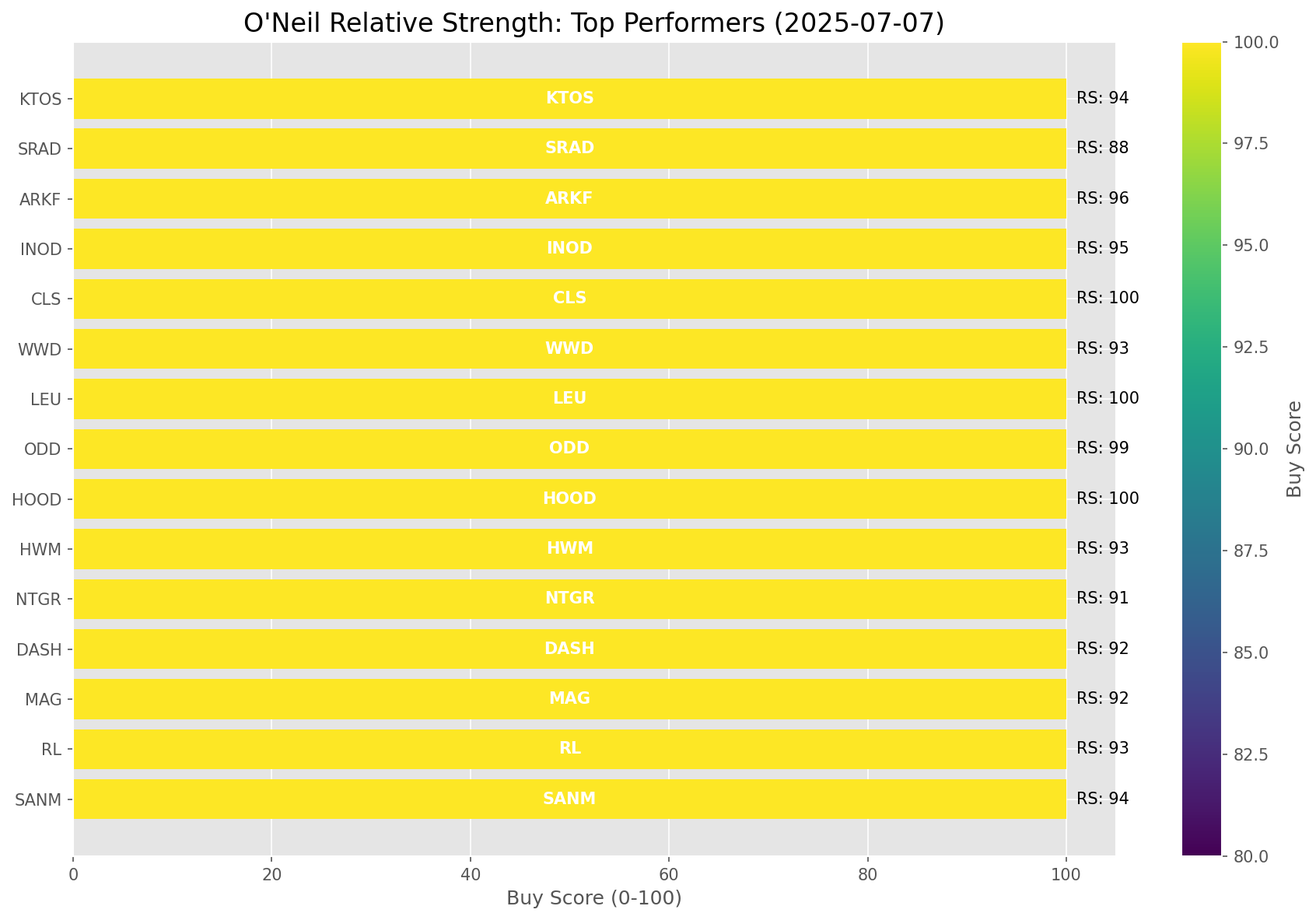
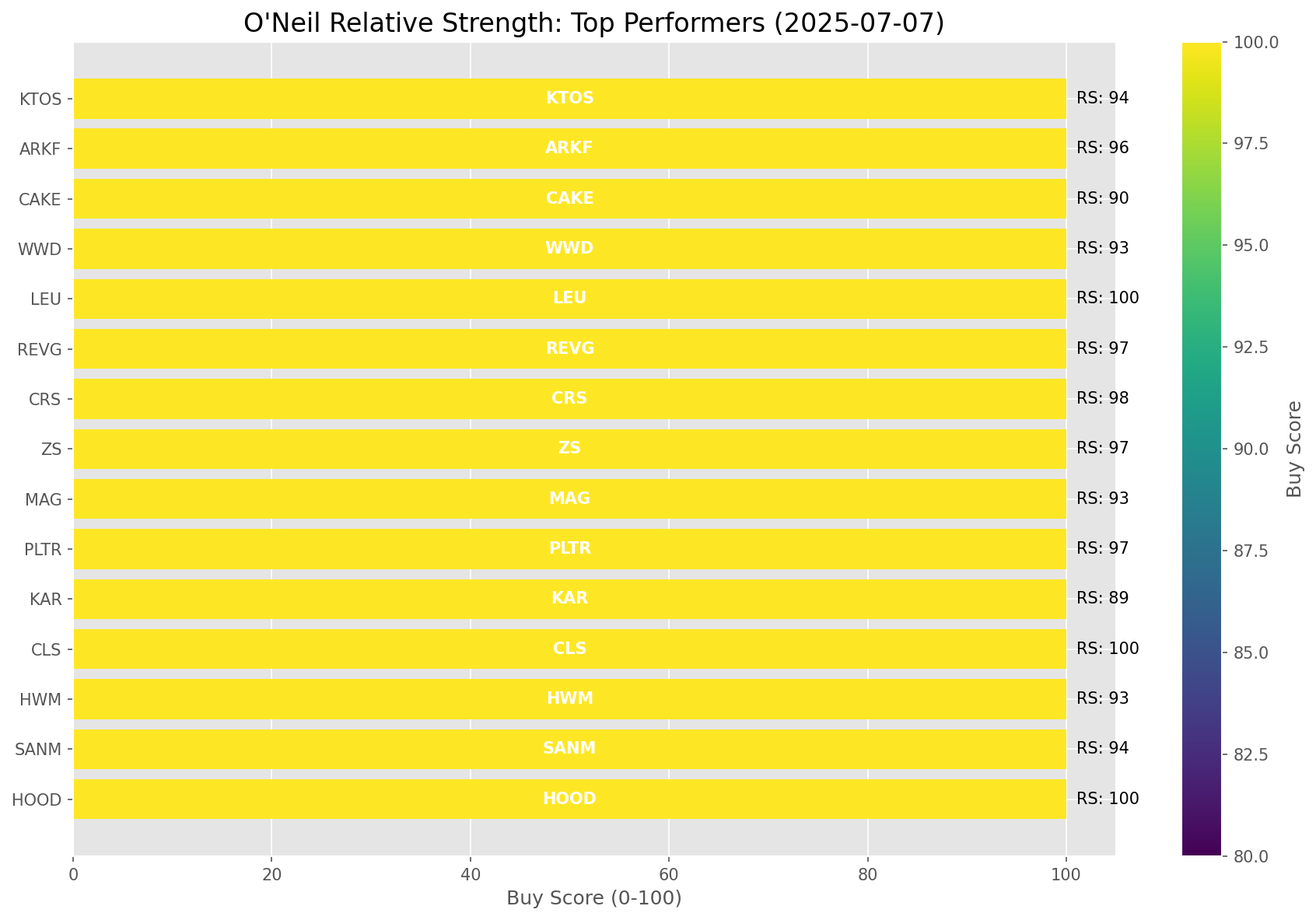
Add market report for 2025-07-07

diff --git a/oneil_relative_strength_report_2025-07-07.md b/oneil_relative_strength_report_2025-07-07.md
@@ -9,11 +9,11 @@
 | Metric | Value |
 |--------|-------|
 | **Market Valuation** | **Overvalued** |
-| **Current Ratio** | 10.19 |
+| **Current Ratio** | 10.20 |
 | **Historical Mean** | 9.40 |
 | **Standard Deviation** | 0.49 |
 | **Z-Score (StdDev from Mean)** | 1.81 |
-| **Total Market Cap** | $305.21 trillion |
+| **Total Market Cap** | $305.60 trillion |
 | **GDP** | $29.96 trillion |
 
 ## **Market Insights**
@@ -49,41 +49,41 @@ Based on William O'Neil's Relative Strength Methodology
 
 | ETF | Strength | RS Rating | Performance | Above Key MAs | Trend | Sector |
 |-----|----------|-----------|-------------|--------------|-------|--------|
-| [ARKW](https://www.tradingview.com/chart/?symbol=ARKW) | 98.5 | 97.0 | 61.84% | 10d ✓, 50d ✓, 200d ✓ | ↗ | Next Generation Internet |
-| [ARKK](https://www.tradingview.com/chart/?symbol=ARKK) | 98.0 | 96.0 | 55.63% | 10d ✓, 50d ✓, 200d ✓ | ↗ | Innovation |
-| [ARKF](https://www.tradingview.com/chart/?symbol=ARKF) | 98.0 | 96.0 | 58.51% | 10d ✓, 50d ✓, 200d ✓ | ↗ | Fintech Innovation |
-| [BLOK](https://www.tradingview.com/chart/?symbol=BLOK) | 97.5 | 95.0 | 53.35% | 10d ✓, 50d ✓, 200d ✓ | ↗ | Blockchain & Cryptocurrency |
-| [XLK](https://www.tradingview.com/chart/?symbol=XLK) | 93.0 | 86.0 | 30.45% | 10d ✓, 50d ✓, 200d ✓ | ↗ | Technology |
-| [AIQ](https://www.tradingview.com/chart/?symbol=AIQ) | 90.0 | 80.0 | 24.72% | 10d ✓, 50d ✓, 200d ✓ | ↗ | Artificial Intelligence & Technology |
-| [JETS](https://www.tradingview.com/chart/?symbol=JETS) | 89.5 | 79.0 | 24.37% | 10d ✓, 50d ✓, 200d ✓ | ↗ | Airlines |
-| [URA](https://www.tradingview.com/chart/?symbol=URA) | 89.1 | 98.0 | 68.70% | 10d ✗, 50d ✓, 200d ✓ | ↗ | Uranium |
-| [CIBR](https://www.tradingview.com/chart/?symbol=CIBR) | 89.0 | 78.0 | 23.23% | 10d ✓, 50d ✓, 200d ✓ | ↗ | Cybersecurity |
-| [PAVE](https://www.tradingview.com/chart/?symbol=PAVE) | 88.5 | 77.0 | 22.82% | 10d ✓, 50d ✓, 200d ✓ | ↗ | Infrastructure |
-| [XLI](https://www.tradingview.com/chart/?symbol=XLI) | 85.0 | 70.0 | 17.98% | 10d ✓, 50d ✓, 200d ✓ | ↗ | Industrial |
-| [XLC](https://www.tradingview.com/chart/?symbol=XLC) | 82.5 | 65.0 | 15.69% | 10d ✓, 50d ✓, 200d ✓ | ↗ | Communications |
-| [SLV](https://www.tradingview.com/chart/?symbol=SLV) | 82.5 | 65.0 | 15.58% | 10d ✓, 50d ✓, 200d ✓ | ↗ | Silver |
-| [XLY](https://www.tradingview.com/chart/?symbol=XLY) | 81.5 | 63.0 | 14.15% | 10d ✓, 50d ✓, 200d ✓ | ↗ | Consumer Discretionary |
-| [IYZ](https://www.tradingview.com/chart/?symbol=IYZ) | 79.0 | 58.0 | 12.00% | 10d ✓, 50d ✓, 200d ✓ | ↗ | Telecommunications |
-| [XLF](https://www.tradingview.com/chart/?symbol=XLF) | 77.0 | 54.0 | 10.18% | 10d ✓, 50d ✓, 200d ✓ | ↗ | Financial |
-| [SOXX](https://www.tradingview.com/chart/?symbol=SOXX) | 75.5 | 91.0 | 40.04% | 10d ✓, 50d ✓, 200d ✓ | ↘ | Semiconductors |
-| [GLD](https://www.tradingview.com/chart/?symbol=GLD) | 74.0 | 48.0 | 7.37% | 10d ✓, 50d ✓, 200d ✓ | ↗ | Gold |
-| [XLU](https://www.tradingview.com/chart/?symbol=XLU) | 70.0 | 40.0 | 3.62% | 10d ✓, 50d ✓, 200d ✓ | ↗ | Utilities |
-| [ARKG](https://www.tradingview.com/chart/?symbol=ARKG) | 69.5 | 79.0 | 23.83% | 10d ✓, 50d ✓, 200d ✓ | ↘ | Genomics |
-| [IYT](https://www.tradingview.com/chart/?symbol=IYT) | 65.0 | 70.0 | 18.08% | 10d ✓, 50d ✓, 200d ✓ | ↘ | Transportation |
-| [XLP](https://www.tradingview.com/chart/?symbol=XLP) | 64.5 | 29.0 | 0.00% | 10d ✓, 50d ✓, 200d ✓ | ↗ | Consumer Staples |
-| [ICLN](https://www.tradingview.com/chart/?symbol=ICLN) | 63.0 | 66.0 | 16.06% | 10d ✓, 50d ✓, 200d ✓ | ↘ | Clean Energy |
-| [XLB](https://www.tradingview.com/chart/?symbol=XLB) | 56.0 | 52.0 | 8.86% | 10d ✓, 50d ✓, 200d ✓ | ↘ | Materials |
-| [KWEB](https://www.tradingview.com/chart/?symbol=KWEB) | 51.1 | 22.0 | -1.95% | 10d ✗, 50d ✓, 200d ✓ | ↗ | Chinese Internet |
-| [DBC](https://www.tradingview.com/chart/?symbol=DBC) | 48.5 | 37.0 | 2.46% | 10d ✓, 50d ✓, 200d ✓ | ↘ | Commodities |
-| [ITB](https://www.tradingview.com/chart/?symbol=ITB) | 40.8 | 42.0 | 4.53% | 10d ✓, 50d ✓, 200d ✗ | ↘ | Home Construction |
-| [IBB](https://www.tradingview.com/chart/?symbol=IBB) | 39.3 | 39.0 | 3.40% | 10d ✓, 50d ✓, 200d ✗ | ↘ | Biotechnology |
-| [XLE](https://www.tradingview.com/chart/?symbol=XLE) | 32.3 | 25.0 | -1.03% | 10d ✓, 50d ✓, 200d ✗ | ↘ | Energy |
-| [DBA](https://www.tradingview.com/chart/?symbol=DBA) | 27.5 | 15.0 | -5.50% | 10d ✗, 50d ✗, 200d ✗ | ↗ | Agriculture |
-| [IYR](https://www.tradingview.com/chart/?symbol=IYR) | 27.4 | 35.0 | 1.78% | 10d ✗, 50d ✓, 200d ✗ | ↘ | Real Estate |
-| [UUP](https://www.tradingview.com/chart/?symbol=UUP) | 19.4 | 19.0 | -3.11% | 10d ✓, 50d ✗, 200d ✗ | ↘ | U.S. Dollar |
-| [BIL](https://www.tradingview.com/chart/?symbol=BIL) | 15.0 | 30.0 | 0.06% | 10d ✗, 50d ✗, 200d ✗ | ↘ | Short-term Treasuries |
-| [XLV](https://www.tradingview.com/chart/?symbol=XLV) | 7.0 | 14.0 | -6.28% | 10d ✗, 50d ✗, 200d ✗ | ↘ | Healthcare |
-| [TLT](https://www.tradingview.com/chart/?symbol=TLT) | 7.0 | 14.0 | -6.31% | 10d ✗, 50d ✗, 200d ✗ | ↘ | Long-term Treasuries |
+| [ARKW](https://www.tradingview.com/chart/?symbol=ARKW) | 98.5 | 97.0 | 62.73% | 10d ✓, 50d ✓, 200d ✓ | ↗ | Next Generation Internet |
+| [ARKF](https://www.tradingview.com/chart/?symbol=ARKF) | 98.0 | 96.0 | 59.26% | 10d ✓, 50d ✓, 200d ✓ | ↗ | Fintech Innovation |
+| [ARKK](https://www.tradingview.com/chart/?symbol=ARKK) | 98.0 | 96.0 | 56.12% | 10d ✓, 50d ✓, 200d ✓ | ↗ | Innovation |
+| [BLOK](https://www.tradingview.com/chart/?symbol=BLOK) | 97.5 | 95.0 | 53.81% | 10d ✓, 50d ✓, 200d ✓ | ↗ | Blockchain & Cryptocurrency |
+| [XLK](https://www.tradingview.com/chart/?symbol=XLK) | 92.5 | 85.0 | 30.57% | 10d ✓, 50d ✓, 200d ✓ | ↗ | Technology |
+| [AIQ](https://www.tradingview.com/chart/?symbol=AIQ) | 90.0 | 80.0 | 25.01% | 10d ✓, 50d ✓, 200d ✓ | ↗ | Artificial Intelligence & Technology |
+| [JETS](https://www.tradingview.com/chart/?symbol=JETS) | 89.5 | 79.0 | 24.53% | 10d ✓, 50d ✓, 200d ✓ | ↗ | Airlines |
+| [URA](https://www.tradingview.com/chart/?symbol=URA) | 89.1 | 98.0 | 69.10% | 10d ✗, 50d ✓, 200d ✓ | ↗ | Uranium |
+| [CIBR](https://www.tradingview.com/chart/?symbol=CIBR) | 89.0 | 78.0 | 23.52% | 10d ✓, 50d ✓, 200d ✓ | ↗ | Cybersecurity |
+| [PAVE](https://www.tradingview.com/chart/?symbol=PAVE) | 88.5 | 77.0 | 23.07% | 10d ✓, 50d ✓, 200d ✓ | ↗ | Infrastructure |
+| [XLI](https://www.tradingview.com/chart/?symbol=XLI) | 85.0 | 70.0 | 18.32% | 10d ✓, 50d ✓, 200d ✓ | ↗ | Industrial |
+| [XLC](https://www.tradingview.com/chart/?symbol=XLC) | 82.5 | 65.0 | 15.64% | 10d ✓, 50d ✓, 200d ✓ | ↗ | Communications |
+| [SLV](https://www.tradingview.com/chart/?symbol=SLV) | 82.5 | 65.0 | 15.71% | 10d ✓, 50d ✓, 200d ✓ | ↗ | Silver |
+| [XLY](https://www.tradingview.com/chart/?symbol=XLY) | 81.5 | 63.0 | 14.33% | 10d ✓, 50d ✓, 200d ✓ | ↗ | Consumer Discretionary |
+| [IYZ](https://www.tradingview.com/chart/?symbol=IYZ) | 79.0 | 58.0 | 12.04% | 10d ✓, 50d ✓, 200d ✓ | ↗ | Telecommunications |
+| [XLF](https://www.tradingview.com/chart/?symbol=XLF) | 77.5 | 55.0 | 10.46% | 10d ✓, 50d ✓, 200d ✓ | ↗ | Financial |
+| [SOXX](https://www.tradingview.com/chart/?symbol=SOXX) | 75.5 | 91.0 | 40.16% | 10d ✓, 50d ✓, 200d ✓ | ↘ | Semiconductors |
+| [GLD](https://www.tradingview.com/chart/?symbol=GLD) | 73.5 | 47.0 | 7.31% | 10d ✓, 50d ✓, 200d ✓ | ↗ | Gold |
+| [XLU](https://www.tradingview.com/chart/?symbol=XLU) | 70.0 | 40.0 | 3.92% | 10d ✓, 50d ✓, 200d ✓ | ↗ | Utilities |
+| [IYT](https://www.tradingview.com/chart/?symbol=IYT) | 65.5 | 71.0 | 18.38% | 10d ✓, 50d ✓, 200d ✓ | ↘ | Transportation |
+| [XLP](https://www.tradingview.com/chart/?symbol=XLP) | 65.0 | 30.0 | 0.11% | 10d ✓, 50d ✓, 200d ✓ | ↗ | Consumer Staples |
+| [ICLN](https://www.tradingview.com/chart/?symbol=ICLN) | 63.0 | 66.0 | 16.17% | 10d ✓, 50d ✓, 200d ✓ | ↘ | Clean Energy |
+| [ARKG](https://www.tradingview.com/chart/?symbol=ARKG) | 59.1 | 78.0 | 23.35% | 10d ✗, 50d ✓, 200d ✓ | ↘ | Genomics |
+| [XLB](https://www.tradingview.com/chart/?symbol=XLB) | 55.5 | 51.0 | 8.92% | 10d ✓, 50d ✓, 200d ✓ | ↘ | Materials |
+| [KWEB](https://www.tradingview.com/chart/?symbol=KWEB) | 51.1 | 22.0 | -2.00% | 10d ✗, 50d ✓, 200d ✓ | ↗ | Chinese Internet |
+| [DBC](https://www.tradingview.com/chart/?symbol=DBC) | 48.5 | 37.0 | 2.39% | 10d ✓, 50d ✓, 200d ✓ | ↘ | Commodities |
+| [ITB](https://www.tradingview.com/chart/?symbol=ITB) | 40.8 | 42.0 | 4.78% | 10d ✓, 50d ✓, 200d ✗ | ↘ | Home Construction |
+| [IBB](https://www.tradingview.com/chart/?symbol=IBB) | 39.3 | 39.0 | 3.50% | 10d ✓, 50d ✓, 200d ✗ | ↘ | Biotechnology |
+| [XLE](https://www.tradingview.com/chart/?symbol=XLE) | 32.8 | 26.0 | -0.63% | 10d ✓, 50d ✓, 200d ✗ | ↘ | Energy |
+| [DBA](https://www.tradingview.com/chart/?symbol=DBA) | 27.5 | 15.0 | -5.41% | 10d ✗, 50d ✗, 200d ✗ | ↗ | Agriculture |
+| [IYR](https://www.tradingview.com/chart/?symbol=IYR) | 27.4 | 35.0 | 1.92% | 10d ✗, 50d ✓, 200d ✗ | ↘ | Real Estate |
+| [UUP](https://www.tradingview.com/chart/?symbol=UUP) | 19.4 | 19.0 | -3.15% | 10d ✓, 50d ✗, 200d ✗ | ↘ | U.S. Dollar |
+| [BIL](https://www.tradingview.com/chart/?symbol=BIL) | 14.5 | 29.0 | 0.07% | 10d ✗, 50d ✗, 200d ✗ | ↘ | Short-term Treasuries |
+| [XLV](https://www.tradingview.com/chart/?symbol=XLV) | 7.0 | 14.0 | -6.13% | 10d ✗, 50d ✗, 200d ✗ | ↘ | Healthcare |
+| [TLT](https://www.tradingview.com/chart/?symbol=TLT) | 7.0 | 14.0 | -6.22% | 10d ✗, 50d ✗, 200d ✗ | ↘ | Long-term Treasuries |
 
 ### **Sector ETF Performance Interpretation**
 
@@ -98,174 +98,161 @@ This table shows the relative strength metrics for different market sectors base
 
 ### **Current Sector Leadership**
 
-The current market leadership is coming from the following sectors: **Next Generation Internet, Innovation, Fintech Innovation**.
+The current market leadership is coming from the following sectors: **Next Generation Internet, Fintech Innovation, Innovation**.
 
-The **Next Generation Internet** sector (represented by **ARKW**) is showing particularly strong relative strength with an RS rating of 97.0 and performance of 61.84% vs. the S&P 500. This sector is trading above its 10-day, 50-day, 200-day moving average(s). Investors should consider focusing on high RS stocks within these leading sectors for potential outperformance.
+The **Next Generation Internet** sector (represented by **ARKW**) is showing particularly strong relative strength with an RS rating of 97.0 and performance of 62.73% vs. the S&P 500. This sector is trading above its 10-day, 50-day, 200-day moving average(s). Investors should consider focusing on high RS stocks within these leading sectors for potential outperformance.
 
 ---
 
 ## **Buy Recommendations**
 
-The following 60 stocks show exceptional relative strength:
+The following 61 stocks show exceptional relative strength:
 
 | RS Rating | Buy Score | Current Price | Chart | Name | Ticker |
 |-----------|-----------|---------------|-------|------|--------|
-| 100 | 100 | $93.05 | [Chart](https://www.tradingview.com/chart/?symbol=HOOD) | Robinhood Markets, Inc. Class A Common Stock | HOOD |
-| 100 | 100 | $185.16 | [Chart](https://www.tradingview.com/chart/?symbol=LEU) | Centrus Energy Corp. | LEU |
-| 100 | 100 | $154.26 | [Chart](https://www.tradingview.com/chart/?symbol=CLS) | Celestica, Inc. | CLS |
-| 100 | 100 | $279.63 | [Chart](https://www.tradingview.com/chart/?symbol=DAVE) | Dave Inc. Class A Common Stock | DAVE |
-| 100 | 100 | $177.70 | [Chart](https://www.tradingview.com/chart/?symbol=SEZL) | Sezzle Inc. Common Stock | SEZL |
-| 99 | 100 | $76.03 | [Chart](https://www.tradingview.com/chart/?symbol=ODD) | ODDITY Tech Ltd. Class A Ordinary Shares | ODD |
-| 99 | 100 | $192.26 | [Chart](https://www.tradingview.com/chart/?symbol=NET) | Cloudflare, Inc. Class A common stock, par value $0.001 per share | NET |
-| 99 | 100 | $149.20 | [Chart](https://www.tradingview.com/chart/?symbol=LMB) | Limbach Holdings, Inc Common Stock | LMB |
-| 99 | 100 | $358.45 | [Chart](https://www.tradingview.com/chart/?symbol=CVNA) | Carvana Co. | CVNA |
-| 99 | 100 | $107.45 | [Chart](https://www.tradingview.com/chart/?symbol=RBLX) | Roblox Corporation | RBLX |
-| 99 | 100 | $36.68 | [Chart](https://www.tradingview.com/chart/?symbol=GRPN) | Groupon, Inc.Common Stock | GRPN |
-| 98 | 100 | $527.01 | [Chart](https://www.tradingview.com/chart/?symbol=GEV) | GE Vernova Inc. | GEV |
-| 98 | 100 | $328.87 | [Chart](https://www.tradingview.com/chart/?symbol=RCL) | Royal Caribbean Group | RCL |
-| 97 | 100 | $313.30 | [Chart](https://www.tradingview.com/chart/?symbol=ZS) | Zscaler, Inc. Common Stock | ZS |
-| 97 | 100 | $138.16 | [Chart](https://www.tradingview.com/chart/?symbol=PLTR) | Palantir Technologies Inc. Class A Common Stock | PLTR |
-| 96 | 100 | $50.39 | [Chart](https://www.tradingview.com/chart/?symbol=ARKF) | ARK Fintech Innovation ETF | ARKF |
-| 96 | 100 | $89.17 | [Chart](https://www.tradingview.com/chart/?symbol=RBRK) | Rubrik, Inc. | RBRK |
-| 96 | 100 | $38.21 | [Chart](https://www.tradingview.com/chart/?symbol=AS) | Amer Sports, Inc. | AS |
-| 96 | 100 | $43.92 | [Chart](https://www.tradingview.com/chart/?symbol=FARO) | Faro Technologies Inc | FARO |
-| 95 | 100 | $50.40 | [Chart](https://www.tradingview.com/chart/?symbol=INOD) | Innodata Inc. | INOD |
-| 95 | 100 | $34.23 | [Chart](https://www.tradingview.com/chart/?symbol=APG) | APi Group Corporation | APG |
-| 94 | 100 | $101.34 | [Chart](https://www.tradingview.com/chart/?symbol=SANM) | Sanmina  Corp | SANM |
-| 94 | 100 | $44.22 | [Chart](https://www.tradingview.com/chart/?symbol=KTOS) | Kratos Defense & Security Solutions, Inc. | KTOS |
-| 94 | 100 | $796.89 | [Chart](https://www.tradingview.com/chart/?symbol=AXON) | Axon Enterprise, Inc. Common Stock | AXON |
-| 93 | 100 | $284.77 | [Chart](https://www.tradingview.com/chart/?symbol=RL) | Ralph Lauren Corporation | RL |
-| 93 | 100 | $179.38 | [Chart](https://www.tradingview.com/chart/?symbol=HWM) | Howmet Aerospace Inc. | HWM |
-| 93 | 100 | $252.56 | [Chart](https://www.tradingview.com/chart/?symbol=WWD) | Woodward, Inc. | WWD |
-| 93 | 100 | $57.55 | [Chart](https://www.tradingview.com/chart/?symbol=IBKR) | Interactive Brokers Group, Inc. Class A Common Stock | IBKR |
-| 93 | 100 | $500.41 | [Chart](https://www.tradingview.com/chart/?symbol=CRWD) | CrowdStrike Holdings, Inc. Class A Common Stock | CRWD |
-| 93 | 100 | $46.92 | [Chart](https://www.tradingview.com/chart/?symbol=DRS) | Leonardo DRS, Inc. Common Stock | DRS |
-| 92 | 100 | $21.55 | [Chart](https://www.tradingview.com/chart/?symbol=MAG) | MAG Silver Corp. | MAG |
-| 92 | 100 | $245.13 | [Chart](https://www.tradingview.com/chart/?symbol=DASH) | DoorDash, Inc. Class A Common Stock | DASH |
-| 92 | 100 | $92.25 | [Chart](https://www.tradingview.com/chart/?symbol=TPR) | Tapestry, Inc. Common Stock | TPR |
-| 91 | 100 | $29.75 | [Chart](https://www.tradingview.com/chart/?symbol=NTGR) | NETGEAR, Inc. | NTGR |
-| 91 | 100 | $17.42 | [Chart](https://www.tradingview.com/chart/?symbol=DAN) | Dana Incorporated | DAN |
-| 90 | 100 | $63.41 | [Chart](https://www.tradingview.com/chart/?symbol=CAKE) | Cheesecake Factory (The) | CAKE |
-| 90 | 100 | $42.51 | [Chart](https://www.tradingview.com/chart/?symbol=KD) | Kyndryl Holdings, Inc. | KD |
-| 89 | 100 | $25.48 | [Chart](https://www.tradingview.com/chart/?symbol=KAR) | OPENLANE, Inc | KAR |
-| 88 | 100 | $28.17 | [Chart](https://www.tradingview.com/chart/?symbol=SRAD) | Sportradar Group AG Class A Ordinary Shares | SRAD |
-| 88 | 99 | $217.38 | [Chart](https://www.tradingview.com/chart/?symbol=COF) | Capital One Financial | COF |
-| 87 | 98 | $30.61 | [Chart](https://www.tradingview.com/chart/?symbol=HODL) | VanEck Bitcoin ETF | HODL |
-| 88 | 97 | $66.20 | [Chart](https://www.tradingview.com/chart/?symbol=RYTM) | Rhythm Pharmaceuticals, Inc. Common Stock | RYTM |
-| 87 | 97 | $61.48 | [Chart](https://www.tradingview.com/chart/?symbol=IBIT) | iShares Bitcoin Trust ETF | IBIT |
-| 86 | 97 | $5793.26 | [Chart](https://www.tradingview.com/chart/?symbol=BKNG) | Booking Holdings Inc. Common Stock | BKNG |
-| 84 | 97 | $66.62 | [Chart](https://www.tradingview.com/chart/?symbol=CHEF) | The Chef's Warehouse Inc | CHEF |
-| 82 | 95 | $29.79 | [Chart](https://www.tradingview.com/chart/?symbol=CAE) | CAE INC | CAE |
-| 81 | 95 | $93.31 | [Chart](https://www.tradingview.com/chart/?symbol=SNEX) | StoneX Group Inc. Common Stock | SNEX |
-| 84 | 94 | $47.44 | [Chart](https://www.tradingview.com/chart/?symbol=AU) | AngloGold Ashanti plc | AU |
-| 83 | 94 | $282.71 | [Chart](https://www.tradingview.com/chart/?symbol=VEEV) | Veeva Systems Inc. | VEEV |
-| 84 | 93 | $49.62 | [Chart](https://www.tradingview.com/chart/?symbol=SIL) | Global X Silver Miners ETF (NEW) | SIL |
-| 82 | 93 | $133.26 | [Chart](https://www.tradingview.com/chart/?symbol=NTES) | NetEase, inc. | NTES |
-| 82 | 93 | $187.24 | [Chart](https://www.tradingview.com/chart/?symbol=ITA) | iShares U.S. Aerospace & Defense ETF | ITA |
-| 82 | 93 | $72.55 | [Chart](https://www.tradingview.com/chart/?symbol=ULS) | UL Solutions Inc. | ULS |
-| 82 | 93 | $290.95 | [Chart](https://www.tradingview.com/chart/?symbol=JPM) | JPMorgan Chase & Co. | JPM |
-| 81 | 93 | $59.70 | [Chart](https://www.tradingview.com/chart/?symbol=SHLD) | Global X Defense Tech ETF | SHLD |
-| 82 | 92 | $268.72 | [Chart](https://www.tradingview.com/chart/?symbol=FDN) | First Trust Dow Jones Internet Index Fund ETF | FDN |
-| 82 | 91 | $123.28 | [Chart](https://www.tradingview.com/chart/?symbol=FUTU) | Futu Holdings Limited American Depositary Shares | FUTU |
-| 81 | 91 | $111.86 | [Chart](https://www.tradingview.com/chart/?symbol=SPMO) | Invesco S&P 500 Momentum ETF | SPMO |
-| 80 | 91 | $76.47 | [Chart](https://www.tradingview.com/chart/?symbol=CTVA) | Corteva, Inc. Common Stock | CTVA |
-| 80 | 90 | $35.67 | [Chart](https://www.tradingview.com/chart/?symbol=ATAT) | Atour Lifestyle Holdings Limited American Depositary Shares | ATAT |
+| 100 | 100 | $93.46 | [Chart](https://www.tradingview.com/chart/?symbol=HOOD) | Robinhood Markets, Inc. Class A Common Stock | HOOD |
+| 100 | 100 | $154.00 | [Chart](https://www.tradingview.com/chart/?symbol=CLS) | Celestica, Inc. | CLS |
+| 100 | 100 | $183.65 | [Chart](https://www.tradingview.com/chart/?symbol=LEU) | Centrus Energy Corp. | LEU |
+| 100 | 100 | $279.80 | [Chart](https://www.tradingview.com/chart/?symbol=DAVE) | Dave Inc. Class A Common Stock | DAVE |
+| 100 | 100 | $181.50 | [Chart](https://www.tradingview.com/chart/?symbol=SEZL) | Sezzle Inc. Common Stock | SEZL |
+| 99 | 100 | $76.01 | [Chart](https://www.tradingview.com/chart/?symbol=ODD) | ODDITY Tech Ltd. Class A Ordinary Shares | ODD |
+| 99 | 100 | $36.71 | [Chart](https://www.tradingview.com/chart/?symbol=GRPN) | Groupon, Inc.Common Stock | GRPN |
+| 99 | 100 | $148.26 | [Chart](https://www.tradingview.com/chart/?symbol=LMB) | Limbach Holdings, Inc Common Stock | LMB |
+| 99 | 100 | $357.32 | [Chart](https://www.tradingview.com/chart/?symbol=CVNA) | Carvana Co. | CVNA |
+| 99 | 100 | $192.85 | [Chart](https://www.tradingview.com/chart/?symbol=NET) | Cloudflare, Inc. Class A common stock, par value $0.001 per share | NET |
+| 99 | 100 | $107.76 | [Chart](https://www.tradingview.com/chart/?symbol=RBLX) | Roblox Corporation | RBLX |
+| 98 | 100 | $280.73 | [Chart](https://www.tradingview.com/chart/?symbol=CRS) | Carpenter Technology Corp | CRS |
+| 98 | 100 | $328.85 | [Chart](https://www.tradingview.com/chart/?symbol=RCL) | Royal Caribbean Group | RCL |
+| 98 | 100 | $530.28 | [Chart](https://www.tradingview.com/chart/?symbol=GEV) | GE Vernova Inc. | GEV |
+| 97 | 100 | $139.12 | [Chart](https://www.tradingview.com/chart/?symbol=PLTR) | Palantir Technologies Inc. Class A Common Stock | PLTR |
+| 97 | 100 | $315.45 | [Chart](https://www.tradingview.com/chart/?symbol=ZS) | Zscaler, Inc. Common Stock | ZS |
+| 97 | 100 | $49.80 | [Chart](https://www.tradingview.com/chart/?symbol=REVG) | REV Group, Inc. | REVG |
+| 96 | 100 | $50.63 | [Chart](https://www.tradingview.com/chart/?symbol=ARKF) | ARK Fintech Innovation ETF | ARKF |
+| 96 | 100 | $43.91 | [Chart](https://www.tradingview.com/chart/?symbol=FARO) | Faro Technologies Inc | FARO |
+| 96 | 100 | $89.85 | [Chart](https://www.tradingview.com/chart/?symbol=RBRK) | Rubrik, Inc. | RBRK |
+| 96 | 100 | $38.31 | [Chart](https://www.tradingview.com/chart/?symbol=AS) | Amer Sports, Inc. | AS |
+| 95 | 100 | $50.99 | [Chart](https://www.tradingview.com/chart/?symbol=INOD) | Innodata Inc. | INOD |
+| 95 | 100 | $34.29 | [Chart](https://www.tradingview.com/chart/?symbol=APG) | APi Group Corporation | APG |
+| 94 | 100 | $101.29 | [Chart](https://www.tradingview.com/chart/?symbol=SANM) | Sanmina  Corp | SANM |
+| 94 | 100 | $44.78 | [Chart](https://www.tradingview.com/chart/?symbol=KTOS) | Kratos Defense & Security Solutions, Inc. | KTOS |
+| 94 | 100 | $802.16 | [Chart](https://www.tradingview.com/chart/?symbol=AXON) | Axon Enterprise, Inc. Common Stock | AXON |
+| 93 | 100 | $180.25 | [Chart](https://www.tradingview.com/chart/?symbol=HWM) | Howmet Aerospace Inc. | HWM |
+| 93 | 100 | $21.71 | [Chart](https://www.tradingview.com/chart/?symbol=MAG) | MAG Silver Corp. | MAG |
+| 93 | 100 | $253.50 | [Chart](https://www.tradingview.com/chart/?symbol=WWD) | Woodward, Inc. | WWD |
+| 93 | 100 | $505.46 | [Chart](https://www.tradingview.com/chart/?symbol=CRWD) | CrowdStrike Holdings, Inc. Class A Common Stock | CRWD |
+| 93 | 100 | $57.78 | [Chart](https://www.tradingview.com/chart/?symbol=IBKR) | Interactive Brokers Group, Inc. Class A Common Stock | IBKR |
+| 93 | 100 | $47.16 | [Chart](https://www.tradingview.com/chart/?symbol=DRS) | Leonardo DRS, Inc. Common Stock | DRS |
+| 93 | 100 | $285.81 | [Chart](https://www.tradingview.com/chart/?symbol=RL) | Ralph Lauren Corporation | RL |
+| 92 | 100 | $92.47 | [Chart](https://www.tradingview.com/chart/?symbol=TPR) | Tapestry, Inc. Common Stock | TPR |
+| 92 | 100 | $246.89 | [Chart](https://www.tradingview.com/chart/?symbol=DASH) | DoorDash, Inc. Class A Common Stock | DASH |
+| 91 | 100 | $29.89 | [Chart](https://www.tradingview.com/chart/?symbol=NTGR) | NETGEAR, Inc. | NTGR |
+| 91 | 100 | $17.49 | [Chart](https://www.tradingview.com/chart/?symbol=DAN) | Dana Incorporated | DAN |
+| 90 | 100 | $63.53 | [Chart](https://www.tradingview.com/chart/?symbol=CAKE) | Cheesecake Factory (The) | CAKE |
+| 90 | 100 | $42.63 | [Chart](https://www.tradingview.com/chart/?symbol=KD) | Kyndryl Holdings, Inc. | KD |
+| 89 | 100 | $25.41 | [Chart](https://www.tradingview.com/chart/?symbol=KAR) | OPENLANE, Inc | KAR |
+| 89 | 100 | $28.34 | [Chart](https://www.tradingview.com/chart/?symbol=SRAD) | Sportradar Group AG Class A Ordinary Shares | SRAD |
+| 88 | 99 | $218.13 | [Chart](https://www.tradingview.com/chart/?symbol=COF) | Capital One Financial | COF |
+| 87 | 98 | $30.57 | [Chart](https://www.tradingview.com/chart/?symbol=HODL) | VanEck Bitcoin ETF | HODL |
+| 87 | 98 | $47.89 | [Chart](https://www.tradingview.com/chart/?symbol=BTC) | Grayscale Bitcoin Mini Trust ETF | BTC |
+| 88 | 97 | $66.39 | [Chart](https://www.tradingview.com/chart/?symbol=RYTM) | Rhythm Pharmaceuticals, Inc. Common Stock | RYTM |
+| 87 | 97 | $61.40 | [Chart](https://www.tradingview.com/chart/?symbol=IBIT) | iShares Bitcoin Trust ETF | IBIT |
+| 86 | 97 | $5815.92 | [Chart](https://www.tradingview.com/chart/?symbol=BKNG) | Booking Holdings Inc. Common Stock | BKNG |
+| 84 | 97 | $67.05 | [Chart](https://www.tradingview.com/chart/?symbol=CHEF) | The Chef's Warehouse Inc | CHEF |
+| 82 | 96 | $94.10 | [Chart](https://www.tradingview.com/chart/?symbol=SNEX) | StoneX Group Inc. Common Stock | SNEX |
+| 85 | 95 | $47.93 | [Chart](https://www.tradingview.com/chart/?symbol=AU) | AngloGold Ashanti plc | AU |
+| 83 | 94 | $291.97 | [Chart](https://www.tradingview.com/chart/?symbol=JPM) | JPMorgan Chase & Co. | JPM |
+| 81 | 94 | $29.74 | [Chart](https://www.tradingview.com/chart/?symbol=CAE) | CAE INC | CAE |
+| 84 | 93 | $49.90 | [Chart](https://www.tradingview.com/chart/?symbol=SIL) | Global X Silver Miners ETF (NEW) | SIL |
+| 82 | 93 | $188.07 | [Chart](https://www.tradingview.com/chart/?symbol=ITA) | iShares U.S. Aerospace & Defense ETF | ITA |
+| 82 | 93 | $73.09 | [Chart](https://www.tradingview.com/chart/?symbol=ULS) | UL Solutions Inc. | ULS |
+| 81 | 93 | $59.79 | [Chart](https://www.tradingview.com/chart/?symbol=SHLD) | Global X Defense Tech ETF | SHLD |
+| 82 | 92 | $269.25 | [Chart](https://www.tradingview.com/chart/?symbol=FDN) | First Trust Dow Jones Internet Index Fund ETF | FDN |
+| 81 | 91 | $112.07 | [Chart](https://www.tradingview.com/chart/?symbol=SPMO) | Invesco S&P 500 Momentum ETF | SPMO |
+| 80 | 91 | $76.58 | [Chart](https://www.tradingview.com/chart/?symbol=CTVA) | Corteva, Inc. Common Stock | CTVA |
+| 81 | 90 | $123.13 | [Chart](https://www.tradingview.com/chart/?symbol=FUTU) | Futu Holdings Limited American Depositary Shares | FUTU |
+| 80 | 90 | $82.34 | [Chart](https://www.tradingview.com/chart/?symbol=WFC) | Wells Fargo & Co. | WFC |
 
 ---
 
 
 ## **Sell Recommendations**
 
-The following 86 stocks show deteriorating relative strength:
+The following 72 stocks show deteriorating relative strength:
 
 | RS Rating | Sell Score | Current Price | Chart | Name | Ticker |
 |-----------|------------|---------------|-------|------|--------|
-| 1 | 100 | $26.28 | [Chart](https://www.tradingview.com/chart/?symbol=TECS) | Direxion Daily Technology Bear 3x Shares | TECS |
-| 1 | 100 | $14.35 | [Chart](https://www.tradingview.com/chart/?symbol=NVDS) | Investment Managers Series Trust II Tradr 1.5X Short NVDA Daily ETF | NVDS |
-| 1 | 100 | $25.37 | [Chart](https://www.tradingview.com/chart/?symbol=QID) | ProShares UltraShort QQQ | QID |
+| 1 | 100 | $25.31 | [Chart](https://www.tradingview.com/chart/?symbol=QID) | ProShares UltraShort QQQ | QID |
 | 1 | 100 | $10.09 | [Chart](https://www.tradingview.com/chart/?symbol=HIBS) | Direxion Daily S&P 500 High Beta Bear 3X Shares | HIBS |
-| 2 | 100 | $42.96 | [Chart](https://www.tradingview.com/chart/?symbol=LINE) | Lineage, Inc. Common Stock | LINE |
+| 1 | 100 | $14.39 | [Chart](https://www.tradingview.com/chart/?symbol=NVDS) | Investment Managers Series Trust II Tradr 1.5X Short NVDA Daily ETF | NVDS |
+| 1 | 100 | $26.23 | [Chart](https://www.tradingview.com/chart/?symbol=TECS) | Direxion Daily Technology Bear 3x Shares | TECS |
+| 2 | 100 | $19.56 | [Chart](https://www.tradingview.com/chart/?symbol=BITI) | ProShares Short Bitcoin ETF | BITI |
+| 2 | 100 | $42.74 | [Chart](https://www.tradingview.com/chart/?symbol=LINE) | Lineage, Inc. Common Stock | LINE |
+| 2 | 100 | $16.53 | [Chart](https://www.tradingview.com/chart/?symbol=SDS) | ProShares UltraShort S&P500 | SDS |
 | 2 | 100 | $10.20 | [Chart](https://www.tradingview.com/chart/?symbol=HPK) | HighPeak Energy, Inc. Common Stock | HPK |
-| 2 | 100 | $16.59 | [Chart](https://www.tradingview.com/chart/?symbol=SDS) | ProShares UltraShort S&P500 | SDS |
-| 2 | 100 | $19.55 | [Chart](https://www.tradingview.com/chart/?symbol=BITI) | ProShares Short Bitcoin ETF | BITI |
-| 2 | 100 | $40.82 | [Chart](https://www.tradingview.com/chart/?symbol=SDOW) | ProShares UltraPro Short Dow 30 | SDOW |
-| 2 | 100 | $24.97 | [Chart](https://www.tradingview.com/chart/?symbol=CRTO) | Criteo S.A. | CRTO |
-| 3 | 100 | $35.74 | [Chart](https://www.tradingview.com/chart/?symbol=SARK) | Investment Managers Series Trust II Tradr 1X Short Innovation Daily ETF | SARK |
-| 3 | 100 | $33.72 | [Chart](https://www.tradingview.com/chart/?symbol=PSQ) | ProShares Short QQQ | PSQ |
-| 4 | 100 | $24.00 | [Chart](https://www.tradingview.com/chart/?symbol=DXD) | ProShares UltraShort Dow 30 | DXD |
-| 4 | 100 | $92.45 | [Chart](https://www.tradingview.com/chart/?symbol=ZBH) | Zimmer Biomet Holdings, Inc. | ZBH |
-| 4 | 100 | $24.71 | [Chart](https://www.tradingview.com/chart/?symbol=ASTH) | Astrana Health Inc. Common Stock | ASTH |
-| 4 | 100 | $79.58 | [Chart](https://www.tradingview.com/chart/?symbol=LNTH) | Lantheus Holdings, Inc | LNTH |
+| 2 | 100 | $24.84 | [Chart](https://www.tradingview.com/chart/?symbol=CRTO) | Criteo S.A. | CRTO |
+| 2 | 100 | $40.57 | [Chart](https://www.tradingview.com/chart/?symbol=SDOW) | ProShares UltraPro Short Dow 30 | SDOW |
+| 3 | 100 | $35.60 | [Chart](https://www.tradingview.com/chart/?symbol=SARK) | Investment Managers Series Trust II Tradr 1X Short Innovation Daily ETF | SARK |
+| 3 | 100 | $33.68 | [Chart](https://www.tradingview.com/chart/?symbol=PSQ) | ProShares Short QQQ | PSQ |
+| 3 | 100 | $139.74 | [Chart](https://www.tradingview.com/chart/?symbol=KRYS) | Krystal Biotech, Inc. Common Stock | KRYS |
+| 4 | 100 | $23.89 | [Chart](https://www.tradingview.com/chart/?symbol=DXD) | ProShares UltraShort Dow 30 | DXD |
+| 4 | 100 | $79.19 | [Chart](https://www.tradingview.com/chart/?symbol=LNTH) | Lantheus Holdings, Inc | LNTH |
 | 5 | 100 | $10.22 | [Chart](https://www.tradingview.com/chart/?symbol=LBTYK) | Liberty Global Ltd. Class C Common Shares | LBTYK |
-| 5 | 100 | $39.61 | [Chart](https://www.tradingview.com/chart/?symbol=SH) | ProShares Short S&P500 | SH |
-| 6 | 100 | $12.86 | [Chart](https://www.tradingview.com/chart/?symbol=CCRN) | Cross Country Healthcare Inc | CCRN |
-| 6 | 100 | $51.62 | [Chart](https://www.tradingview.com/chart/?symbol=LW) | Lamb Weston Holdings, Inc. | LW |
-| 6 | 100 | $29.25 | [Chart](https://www.tradingview.com/chart/?symbol=OMCL) | Omnicell Inc | OMCL |
-| 9 | 100 | $52.17 | [Chart](https://www.tradingview.com/chart/?symbol=CNMD) | CONMED Corporation | CNMD |
-| 9 | 100 | $11.80 | [Chart](https://www.tradingview.com/chart/?symbol=LBRT) | Liberty Energy Inc. | LBRT |
-| 10 | 100 | $131.43 | [Chart](https://www.tradingview.com/chart/?symbol=KMB) | Kimberly-Clark Corp. | KMB |
-| 11 | 100 | $13.85 | [Chart](https://www.tradingview.com/chart/?symbol=OCSL) | Oaktree Specialty Lending Corporation | OCSL |
-| 11 | 100 | $82.95 | [Chart](https://www.tradingview.com/chart/?symbol=KSPI) | Joint Stock Company Kaspi.kz American Depository Shares | KSPI |
-| 11 | 100 | $45.30 | [Chart](https://www.tradingview.com/chart/?symbol=CWT) | California Water Service | CWT |
-| 12 | 100 | $85.53 | [Chart](https://www.tradingview.com/chart/?symbol=SIGI) | Selective Insurance Group | SIGI |
-| 14 | 100 | $17.88 | [Chart](https://www.tradingview.com/chart/?symbol=ZTO) | ZTO Express (Cayman) Inc. American Depositary Shares, each representing one Class A ordinary share | ZTO |
-| 5 | 99 | $10.85 | [Chart](https://www.tradingview.com/chart/?symbol=SONO) | Sonos, Inc. Common Stock | SONO |
-| 11 | 99 | $46.98 | [Chart](https://www.tradingview.com/chart/?symbol=KBR) | KBR, Inc. | KBR |
-| 7 | 98 | $14.52 | [Chart](https://www.tradingview.com/chart/?symbol=VRE) | Veris Residential, Inc. | VRE |
-| 9 | 98 | $29.27 | [Chart](https://www.tradingview.com/chart/?symbol=QDEL) | QuidelOrtho Corporation Common Stock | QDEL |
-| 10 | 98 | $62.03 | [Chart](https://www.tradingview.com/chart/?symbol=ELS) | Equity Lifestyle Properties, Inc. | ELS |
-| 10 | 98 | $25.37 | [Chart](https://www.tradingview.com/chart/?symbol=DOG) | ProShares Short Dow30 | DOG |
-| 9 | 97 | $13.68 | [Chart](https://www.tradingview.com/chart/?symbol=EIC) | Eagle Point Income Company Inc. | EIC |
-| 18 | 97 | $10.31 | [Chart](https://www.tradingview.com/chart/?symbol=MUC) | BLACKROCK MUNIHOLDINGS CALIFORNIA QUALITY FUND, INC | MUC |
-| 6 | 96 | $79.67 | [Chart](https://www.tradingview.com/chart/?symbol=OKE) | Oneok, Inc. | OKE |
-| 8 | 96 | $48.40 | [Chart](https://www.tradingview.com/chart/?symbol=SNY) | Sanofi American Depositary Shares (Each representing one-half of one ordinary share) | SNY |
-| 12 | 96 | $40.87 | [Chart](https://www.tradingview.com/chart/?symbol=POR) | Portland General Electric Company | POR |
-| 16 | 96 | $52.69 | [Chart](https://www.tradingview.com/chart/?symbol=KBH) | KB Home | KBH |
-| 13 | 95 | $15.09 | [Chart](https://www.tradingview.com/chart/?symbol=PAXS) | PIMCO Access Income Fund | PAXS |
-| 16 | 95 | $29.70 | [Chart](https://www.tradingview.com/chart/?symbol=BAX) | Baxter International Inc. | BAX |
-| 7 | 94 | $70.76 | [Chart](https://www.tradingview.com/chart/?symbol=RLI) | RLI Corp. | RLI |
-| 12 | 94 | $130.66 | [Chart](https://www.tradingview.com/chart/?symbol=ICUI) | ICU Medical Inc | ICUI |
-| 10 | 93 | $25.37 | [Chart](https://www.tradingview.com/chart/?symbol=DRV) | Direxion Daily Real Estate Bear 3X Shares | DRV |
-| 17 | 93 | $103.11 | [Chart](https://www.tradingview.com/chart/?symbol=DEO) | Diageo plc | DEO |
-| 16 | 92 | $10.37 | [Chart](https://www.tradingview.com/chart/?symbol=NMZ) | Nuveen Municipal High Income Opportunity Fund | NMZ |
-| 10 | 91 | $38.30 | [Chart](https://www.tradingview.com/chart/?symbol=LKQ) | LKQ Corporation | LKQ |
-| 14 | 91 | $26.68 | [Chart](https://www.tradingview.com/chart/?symbol=VCYT) | Veracyte, Inc. | VCYT |
-| 24 | 91 | $15.55 | [Chart](https://www.tradingview.com/chart/?symbol=HQH) | abrdn Healthcare Investors | HQH |
-| 13 | 90 | $12.68 | [Chart](https://www.tradingview.com/chart/?symbol=EWTX) | Edgewise Therapeutics, Inc. Common Stock | EWTX |
-| 15 | 90 | $101.31 | [Chart](https://www.tradingview.com/chart/?symbol=CCI) | Crown Castle Inc. | CCI |
-| 21 | 90 | $770.76 | [Chart](https://www.tradingview.com/chart/?symbol=LLY) | Eli Lilly & Co. | LLY |
-| 12 | 89 | $105.17 | [Chart](https://www.tradingview.com/chart/?symbol=PDD) | PDD Holdings Inc. American Depositary Shares | PDD |
-| 13 | 89 | $40.85 | [Chart](https://www.tradingview.com/chart/?symbol=UDR) | UDR, Inc. | UDR |
-| 15 | 89 | $18.91 | [Chart](https://www.tradingview.com/chart/?symbol=MSDL) | Morgan Stanley Direct Lending Fund | MSDL |
-| 15 | 89 | $12.66 | [Chart](https://www.tradingview.com/chart/?symbol=PCN) | PIMCO Corporate & Income Strategy Fund | PCN |
-| 17 | 89 | $14.13 | [Chart](https://www.tradingview.com/chart/?symbol=DOLE) | Dole plc | DOLE |
-| 18 | 89 | $16.07 | [Chart](https://www.tradingview.com/chart/?symbol=BNL) | Broadstone Net Lease, Inc. | BNL |
-| 15 | 86 | $36.48 | [Chart](https://www.tradingview.com/chart/?symbol=OHI) | Omega Healthcare Investors Inc. | OHI |
-| 16 | 86 | $32.27 | [Chart](https://www.tradingview.com/chart/?symbol=INVH) | Invitation Homes Inc. Common Stock | INVH |
-| 19 | 86 | $22.07 | [Chart](https://www.tradingview.com/chart/?symbol=SGRY) | Surgery Partners, Inc. Common Stock | SGRY |
-| 22 | 86 | $61.41 | [Chart](https://www.tradingview.com/chart/?symbol=UL) | Unilever plc | UL |
-| 16 | 85 | $35.36 | [Chart](https://www.tradingview.com/chart/?symbol=AMH) | AMERICAN HOMES 4 RENT | AMH |
-| 18 | 85 | $30.28 | [Chart](https://www.tradingview.com/chart/?symbol=AXTA) | Axalta Coating Systems Ltd. | AXTA |
-| 19 | 85 | $34.95 | [Chart](https://www.tradingview.com/chart/?symbol=PECO) | Phillips Edison & Company, Inc. Common Stock | PECO |
-| 19 | 84 | $21.66 | [Chart](https://www.tradingview.com/chart/?symbol=TUA) | Simplify Short Term Treasury Futures Strategy ETF | TUA |
-| 22 | 82 | $39.66 | [Chart](https://www.tradingview.com/chart/?symbol=TOTL) | SSgA Active ETF Trust SPDR DoubleLine Total Return Tactical ETF | TOTL |
-| 27 | 82 | $22.84 | [Chart](https://www.tradingview.com/chart/?symbol=IBTG) | iShares iBonds Dec 2026 Term Treasury ETF | IBTG |
-| 26 | 81 | $299.76 | [Chart](https://www.tradingview.com/chart/?symbol=ACN) | Accenture PLC | ACN |
-| 36 | 81 | $18.29 | [Chart](https://www.tradingview.com/chart/?symbol=S) | SentinelOne, Inc. | S |
-| 24 | 79 | $69.68 | [Chart](https://www.tradingview.com/chart/?symbol=BRC) | Brady Corporation | BRC |
-| 33 | 78 | $28.39 | [Chart](https://www.tradingview.com/chart/?symbol=RNA) | Avidity Biosciences, Inc. Common Stock | RNA |
-| 27 | 77 | $35.25 | [Chart](https://www.tradingview.com/chart/?symbol=LTC) | LTC Properties, Inc. | LTC |
-| 31 | 77 | $56.50 | [Chart](https://www.tradingview.com/chart/?symbol=DAY) | Dayforce, Inc. | DAY |
+| 5 | 100 | $28.92 | [Chart](https://www.tradingview.com/chart/?symbol=OMCL) | Omnicell Inc | OMCL |
+| 6 | 100 | $39.54 | [Chart](https://www.tradingview.com/chart/?symbol=SH) | ProShares Short S&P500 | SH |
+| 6 | 100 | $50.97 | [Chart](https://www.tradingview.com/chart/?symbol=LW) | Lamb Weston Holdings, Inc. | LW |
+| 9 | 100 | $11.87 | [Chart](https://www.tradingview.com/chart/?symbol=LBRT) | Liberty Energy Inc. | LBRT |
+| 10 | 100 | $82.50 | [Chart](https://www.tradingview.com/chart/?symbol=KSPI) | Joint Stock Company Kaspi.kz American Depository Shares | KSPI |
+| 12 | 100 | $85.60 | [Chart](https://www.tradingview.com/chart/?symbol=SIGI) | Selective Insurance Group | SIGI |
+| 14 | 100 | $17.92 | [Chart](https://www.tradingview.com/chart/?symbol=ZTO) | ZTO Express (Cayman) Inc. American Depositary Shares, each representing one Class A ordinary share | ZTO |
+| 6 | 99 | $12.75 | [Chart](https://www.tradingview.com/chart/?symbol=CCRN) | Cross Country Healthcare Inc | CCRN |
+| 9 | 99 | $51.93 | [Chart](https://www.tradingview.com/chart/?symbol=CNMD) | CONMED Corporation | CNMD |
+| 10 | 99 | $131.65 | [Chart](https://www.tradingview.com/chart/?symbol=KMB) | Kimberly-Clark Corp. | KMB |
+| 11 | 98 | $45.54 | [Chart](https://www.tradingview.com/chart/?symbol=CWT) | California Water Service | CWT |
+| 12 | 98 | $13.85 | [Chart](https://www.tradingview.com/chart/?symbol=OCSL) | Oaktree Specialty Lending Corporation | OCSL |
+| 5 | 97 | $10.79 | [Chart](https://www.tradingview.com/chart/?symbol=SONO) | Sonos, Inc. Common Stock | SONO |
+| 9 | 97 | $29.22 | [Chart](https://www.tradingview.com/chart/?symbol=QDEL) | QuidelOrtho Corporation Common Stock | QDEL |
+| 10 | 97 | $25.31 | [Chart](https://www.tradingview.com/chart/?symbol=DOG) | ProShares Short Dow30 | DOG |
+| 11 | 97 | $46.96 | [Chart](https://www.tradingview.com/chart/?symbol=KBR) | KBR, Inc. | KBR |
+| 7 | 96 | $14.54 | [Chart](https://www.tradingview.com/chart/?symbol=VRE) | Veris Residential, Inc. | VRE |
+| 8 | 96 | $48.32 | [Chart](https://www.tradingview.com/chart/?symbol=SNY) | Sanofi American Depositary Shares (Each representing one-half of one ordinary share) | SNY |
+| 9 | 96 | $13.70 | [Chart](https://www.tradingview.com/chart/?symbol=EIC) | Eagle Point Income Company Inc. | EIC |
+| 15 | 95 | $29.69 | [Chart](https://www.tradingview.com/chart/?symbol=BAX) | Baxter International Inc. | BAX |
+| 6 | 94 | $80.17 | [Chart](https://www.tradingview.com/chart/?symbol=OKE) | Oneok, Inc. | OKE |
+| 12 | 94 | $40.91 | [Chart](https://www.tradingview.com/chart/?symbol=POR) | Portland General Electric Company | POR |
+| 16 | 94 | $52.78 | [Chart](https://www.tradingview.com/chart/?symbol=KBH) | KB Home | KBH |
+| 20 | 94 | $10.37 | [Chart](https://www.tradingview.com/chart/?symbol=MUC) | BLACKROCK MUNIHOLDINGS CALIFORNIA QUALITY FUND, INC | MUC |
+| 10 | 93 | $25.28 | [Chart](https://www.tradingview.com/chart/?symbol=DRV) | Direxion Daily Real Estate Bear 3X Shares | DRV |
+| 11 | 93 | $129.71 | [Chart](https://www.tradingview.com/chart/?symbol=ICUI) | ICU Medical Inc | ICUI |
+| 12 | 92 | $26.34 | [Chart](https://www.tradingview.com/chart/?symbol=VCYT) | Veracyte, Inc. | VCYT |
+| 17 | 92 | $102.93 | [Chart](https://www.tradingview.com/chart/?symbol=DEO) | Diageo plc | DEO |
+| 16 | 91 | $10.38 | [Chart](https://www.tradingview.com/chart/?symbol=NMZ) | Nuveen Municipal High Income Opportunity Fund | NMZ |
+| 10 | 90 | $38.25 | [Chart](https://www.tradingview.com/chart/?symbol=LKQ) | LKQ Corporation | LKQ |
+| 25 | 90 | $15.58 | [Chart](https://www.tradingview.com/chart/?symbol=HQH) | abrdn Healthcare Investors | HQH |
+| 15 | 89 | $12.67 | [Chart](https://www.tradingview.com/chart/?symbol=PCN) | PIMCO Corporate & Income Strategy Fund | PCN |
+| 13 | 88 | $12.61 | [Chart](https://www.tradingview.com/chart/?symbol=EWTX) | Edgewise Therapeutics, Inc. Common Stock | EWTX |
+| 15 | 88 | $18.93 | [Chart](https://www.tradingview.com/chart/?symbol=MSDL) | Morgan Stanley Direct Lending Fund | MSDL |
+| 22 | 88 | $772.87 | [Chart](https://www.tradingview.com/chart/?symbol=LLY) | Eli Lilly & Co. | LLY |
+| 16 | 87 | $76.49 | [Chart](https://www.tradingview.com/chart/?symbol=CNS) | Cohen & Steers Inc. | CNS |
+| 18 | 87 | $16.05 | [Chart](https://www.tradingview.com/chart/?symbol=BNL) | Broadstone Net Lease, Inc. | BNL |
+| 18 | 86 | $14.13 | [Chart](https://www.tradingview.com/chart/?symbol=DOLE) | Dole plc | DOLE |
+| 19 | 86 | $68.82 | [Chart](https://www.tradingview.com/chart/?symbol=BRC) | Brady Corporation | BRC |
+| 18 | 84 | $76.47 | [Chart](https://www.tradingview.com/chart/?symbol=AWR) | American States Water Company | AWR |
+| 23 | 84 | $61.41 | [Chart](https://www.tradingview.com/chart/?symbol=UL) | Unilever plc | UL |
+| 19 | 83 | $34.90 | [Chart](https://www.tradingview.com/chart/?symbol=PECO) | Phillips Edison & Company, Inc. Common Stock | PECO |
+| 19 | 82 | $14.22 | [Chart](https://www.tradingview.com/chart/?symbol=SBGI) | Sinclair, Inc. Class A Common Stock | SBGI |
+| 35 | 81 | $18.20 | [Chart](https://www.tradingview.com/chart/?symbol=S) | SentinelOne, Inc. | S |
+| 28 | 80 | $22.84 | [Chart](https://www.tradingview.com/chart/?symbol=IBTG) | iShares iBonds Dec 2026 Term Treasury ETF | IBTG |
+| 22 | 79 | $16.00 | [Chart](https://www.tradingview.com/chart/?symbol=QNST) | QuinStreet, Inc. | QNST |
+| 27 | 79 | $300.54 | [Chart](https://www.tradingview.com/chart/?symbol=ACN) | Accenture PLC | ACN |
+| 26 | 76 | $35.20 | [Chart](https://www.tradingview.com/chart/?symbol=LTC) | LTC Properties, Inc. | LTC |
+| 32 | 75 | $56.60 | [Chart](https://www.tradingview.com/chart/?symbol=DAY) | Dayforce, Inc. | DAY |
 | 27 | 74 | $29.12 | [Chart](https://www.tradingview.com/chart/?symbol=SPTS) | SPDR Portfolio Short Term Treasury ETF | SPTS |
-| 32 | 74 | $116.83 | [Chart](https://www.tradingview.com/chart/?symbol=ITGR) | Integer Holdings Corporation | ITGR |
-| 36 | 74 | $124.42 | [Chart](https://www.tradingview.com/chart/?symbol=RGEN) | Repligen Corp | RGEN |
-| 37 | 74 | $467.14 | [Chart](https://www.tradingview.com/chart/?symbol=LMT) | Lockheed Martin Corp. | LMT |
-| 34 | 72 | $345.61 | [Chart](https://www.tradingview.com/chart/?symbol=SHW) | The Sherwin-Williams Company | SHW |
-| 32 | 71 | $223.97 | [Chart](https://www.tradingview.com/chart/?symbol=LOW) | Lowe's Companies Inc. | LOW |
-| 32 | 69 | $23.11 | [Chart](https://www.tradingview.com/chart/?symbol=IBHF) | iShares iBonds 2026 Term High Yield and Income ETF | IBHF |
-| 33 | 67 | $19.75 | [Chart](https://www.tradingview.com/chart/?symbol=KRNT) | Kornit Digital Ltd. | KRNT |
-| 36 | 66 | $220.45 | [Chart](https://www.tradingview.com/chart/?symbol=MKTX) | MarketAxess Holdings Inc. | MKTX |
-| 37 | 63 | $89.50 | [Chart](https://www.tradingview.com/chart/?symbol=LPX) | Louisiana-Pacific Corp. | LPX |
+| 36 | 73 | $124.43 | [Chart](https://www.tradingview.com/chart/?symbol=RGEN) | Repligen Corp | RGEN |
+| 38 | 73 | $469.06 | [Chart](https://www.tradingview.com/chart/?symbol=LMT) | Lockheed Martin Corp. | LMT |
+| 37 | 72 | $28.80 | [Chart](https://www.tradingview.com/chart/?symbol=RNA) | Avidity Biosciences, Inc. Common Stock | RNA |
+| 33 | 71 | $117.02 | [Chart](https://www.tradingview.com/chart/?symbol=ITGR) | Integer Holdings Corporation | ITGR |
+| 35 | 70 | $346.29 | [Chart](https://www.tradingview.com/chart/?symbol=SHW) | The Sherwin-Williams Company | SHW |
+| 31 | 69 | $23.09 | [Chart](https://www.tradingview.com/chart/?symbol=IBHF) | iShares iBonds 2026 Term High Yield and Income ETF | IBHF |
 
 ## **Methodology**
 
